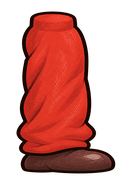
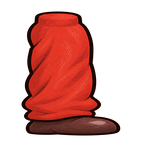
Diavoletto: gamba di dietro sotto e più scura, gambe più corte, coda corretta
La gamba di dietro si disegna prima e un po' più scura, così non passa davanti
all'altra. Gambe accorciate di circa un quarto (il corpo scende di 14 unità).
La coda correndo si allontana dal corpo invece di avvicinarsi, e tutti i suoi
movimenti sono circa la metà.

Claude-Session: https://claude.ai/code/session_017yjtTFYULZmM7w9JdhJPNr

Changed region(s): [[0.1212, 0.0544, 0.8788, 0.9524], [0.3333, 0.517, 0.3636, 0.5714], [0.2424, 0.7075, 0.2727, 0.7347]]

diff --git a/strumenti/grafica/scoria.py b/strumenti/grafica/scoria.py
@@ -27,12 +27,12 @@ BORDO = 2.5   # spessore del contorno chiaro, in unità del disegno
 # Le scale vengono dalle proporzioni del diavoletto intero di Gabriella
 # (gabriella/disegni/2026-10-25_nuovi_diavoletti/originale_senza_braccia.png).
 PEZZI = {
-    "testa": dict(scala=0.101, perno=(615, 1115), dove=(69, 83)),
-    "busto": dict(scala=0.1125, perno=(832, 950), dove=(69, 141.7)),
-    # la gamba di ChatGPT è un tubo lungo e stretto: la allarghiamo come i pantaloni
-    # larghi del diavoletto intero
-    "gamba": dict(scala=(0.095, 0.066), perno=(535, 360), dove=(0, 0)),
-    "fiammella": dict(scala=0.054, perno=(630, 974), dove=(72, -1)),
+    "testa": dict(scala=0.101, perno=(615, 1115), dove=(69, 97)),
+    "busto": dict(scala=0.1125, perno=(832, 950), dove=(69, 155.7)),
+    # la gamba di ChatGPT è un tubo lungo e stretto: la allarghiamo e la accorciamo come
+    # i pantaloni larghi del diavoletto intero
+    "gamba": dict(scala=(0.095, 0.0505), perno=(535, 360), dove=(0, 0)),
+    "fiammella": dict(scala=0.054, perno=(630, 974), dove=(72, 13)),
 }
 # la linea della coda nel busto sorgente, dalla radice alla punta
 CODA = [(625, 890), (540, 930), (470, 935), (380, 905), (320, 840), (290, 750),
